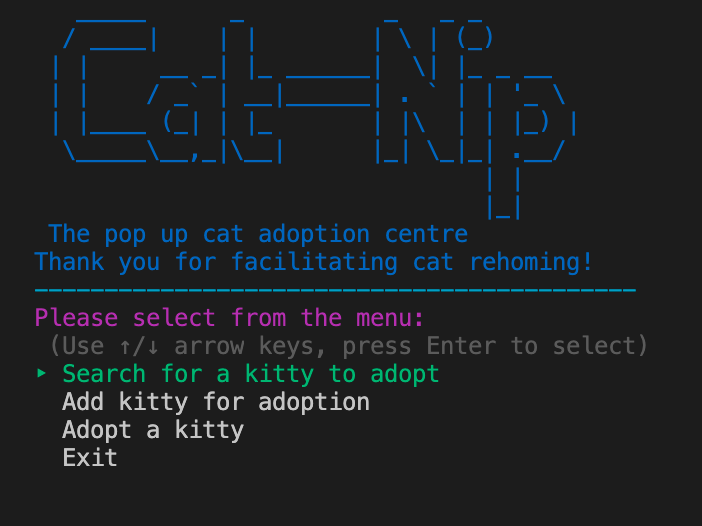
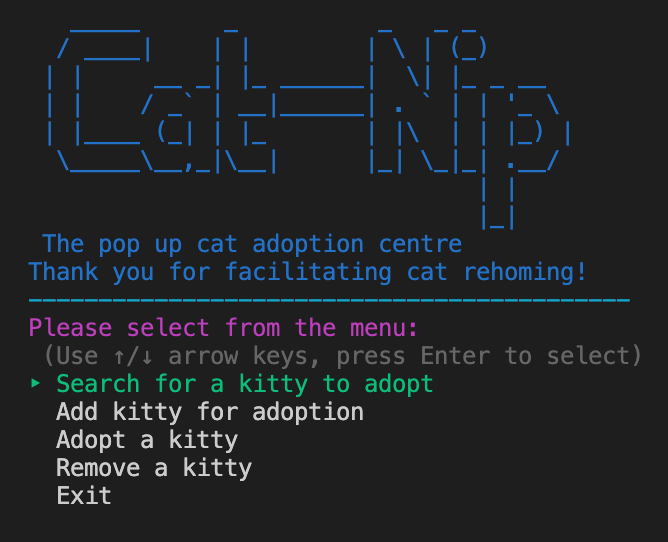
user interaction documentation and checking for errors

diff --git a/cat_namer.rb b/cat_namer.rb
@@ -86,7 +86,7 @@ def name_me_ow() #'Gator said this was acceptable and reasonable
         else
             puts "How many words in your cat name?".colorize(:blue)
             number_of_words = gets.chomp.to_i - 1
-            if number_of_words <= 0 || number_of_words > 6
+            if number_of_words < 0 || number_of_words > 6
                 puts "Two names is most common"
                 number_of_words = 1
             end

diff --git a/search_feature.rb b/search_feature.rb
@@ -25,6 +25,5 @@ def search_by_feature(shelters)
             end
         }
     }
-    # how to make this not print if some criteria met?
-    puts "Sorry, no cats meet your feature criteria at this time\n"
+    # future feature: add a message when no cat's meet search criteria
 end

diff --git a/Software_Development_Plan.md b/Software_Development_Plan.md
@@ -59,3 +59,23 @@ Stand up meetings were held twice. In future, especially when working in teams o
 ## User interaction ##
 After the Cat Adoption Officer who will be running the pop up cat adoption centre has followed the steps on the README to run the app, Catnip will disply the main menu. Titles and colours are used throughout the app to give the user (the Cat Adoption Officer) and enjoyable experience.
 
+### *Main Menu*
+![](/user_interaction/Main_Menu.png)
+
+The main menu offers the Cat Adoption Officer the choice to: 
+- Search for a kitty for a customer to adopt.
+- Add a kitty that a customer has brought in that needs to be searchable so that it can be adopted. (note: Cat Adoption Officer will need to notify customer to organise transport of kitty to the shelter that will look after it until adoption)
+- 
+
+### *Search for a Kitty*
+![Kitty Searching Menu](user_interaction/Kitty_Search_Menu.png)
+![Search by feature](user_interaction/Search_by_feature.png)
+![Search by location](user_interaction/Search_by_location.png)
+![Display Cats](user_interaction/Display_cat.png)
+
+### *Add Kitty for Adoption*
+
+![Add Kitty for Adoption](/user_interaction/Add_Kitty_for_Adoption.png)
+
+![Add Kitty with Unique Name](/user_interaction/Add_Kitty_with_Unique_name.png)
+
